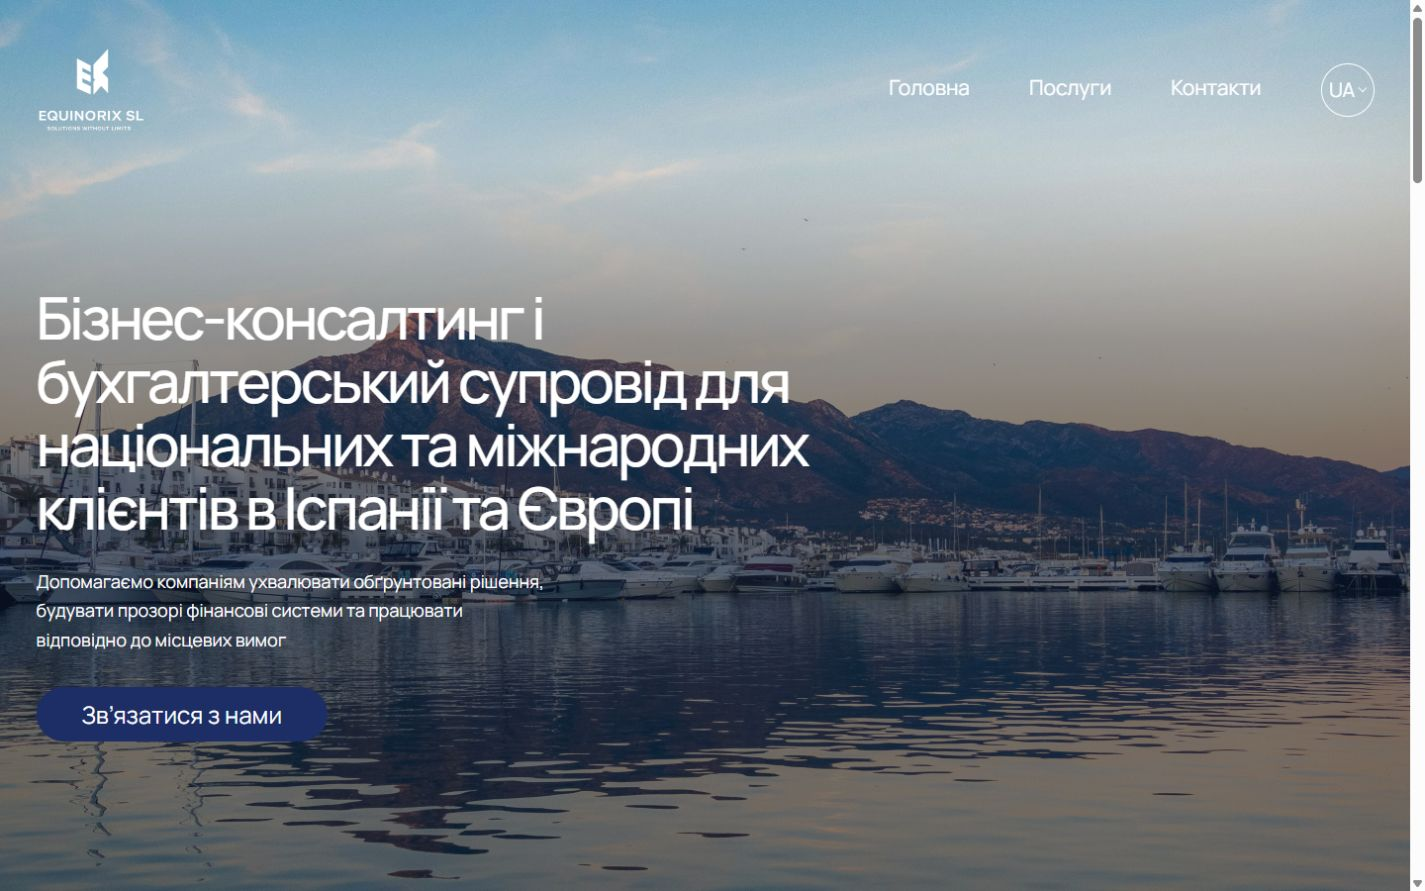
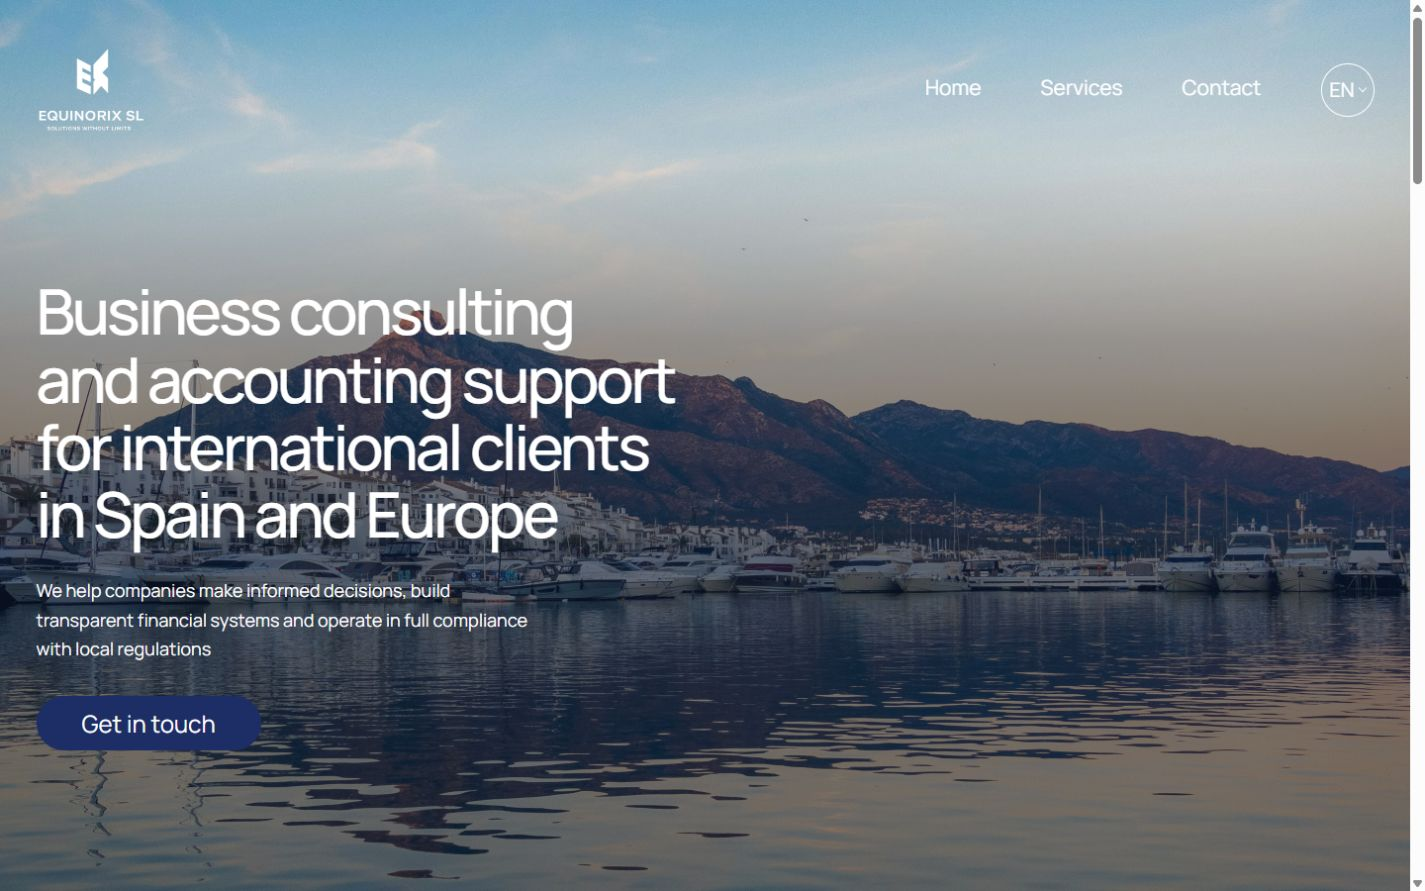
Align HR lists, round founder video, enlarge desktop hero

diff --git a/site-copy/assets/design-sections.css b/site-copy/assets/design-sections.css
@@ -29,7 +29,7 @@
   flex-direction: column;
   min-width: 0;
   margin: 0;
-  padding: 8px 28px;
+  padding: 8px 0;
   row-gap: 0;
   border: 0;
   border-radius: 8px;
@@ -102,7 +102,7 @@
   overflow: hidden;
   aspect-ratio: 16 / 9;
   border: 0;
-  border-radius: 0;
+  border-radius: 8px;
   background: transparent;
   box-shadow: none;
 }
@@ -114,16 +114,12 @@
   width: 100%;
   height: 100%;
   border: 0;
-  border-radius: 0;
+  border-radius: 8px;
   object-fit: contain;
   background: transparent;
 }
 
 @media (max-width: 1023px) {
-  .about .about__list > ul {
-    padding-inline: 20px;
-  }
-
   .about .about__list > ul > li {
     padding: 18px 0 18px 46px;
     font-size: 16px;
@@ -150,6 +146,11 @@
     border-radius: 6px;
   }
 
+  .founder-message .founder-message__media,
+  .founder-message .founder-message__video {
+    border-radius: 6px;
+  }
+
   .about .about__list {
     grid-template-columns: minmax(0, 1fr);
     gap: 16px;
@@ -157,7 +158,7 @@
   }
 
   .about .about__list > ul {
-    padding: 4px 18px;
+    padding: 4px 0;
   }
 
   .about .about__list > ul > li {

diff --git a/site-copy/assets/design.css b/site-copy/assets/design.css
@@ -57,6 +57,7 @@ dialog{border:1px solid var(--line);border-radius:12px;padding:32px;background:#
 dialog h2{font-weight:500;letter-spacing:-.03em;color:var(--ink)}
 .cookie-actions .btn{border-radius:30px;font-size:14px}
 @media(max-width:1419px){.btn_main{padding:12px 38px;font-size:20px}}
+@media(min-width:1024px){.first__title{font-size:clamp(44px,4.4vw,66px)}}
 @media(min-width:768px) and (max-width:1023px){.first__content{width:80%}.form__block{gap:36px}.form__img img{height:720px}.footer__base{gap:40px}}
 @media(max-width:767px){
  :root{--section-space:56px}

diff --git a/README.md b/README.md
@@ -69,6 +69,8 @@ npm run check
 
 ## Підготовка GitHub Pages
 
+Останні точкові правки: HR-списки вирівняні за краями фото без внутрішнього горизонтального відступу; кути відеоблоку мають радіус 8 px (6 px на телефоні); заголовок першого екрана збільшений приблизно на 6–7% лише від ширини 1024 px. Перевірено всі чотири мови на ширинах 390, 768, 1024 і 1440 px: горизонтального переповнення й обрізання заголовка немає. Тексти збережено.
+
 ```powershell
 npm run build:pages
 ```
